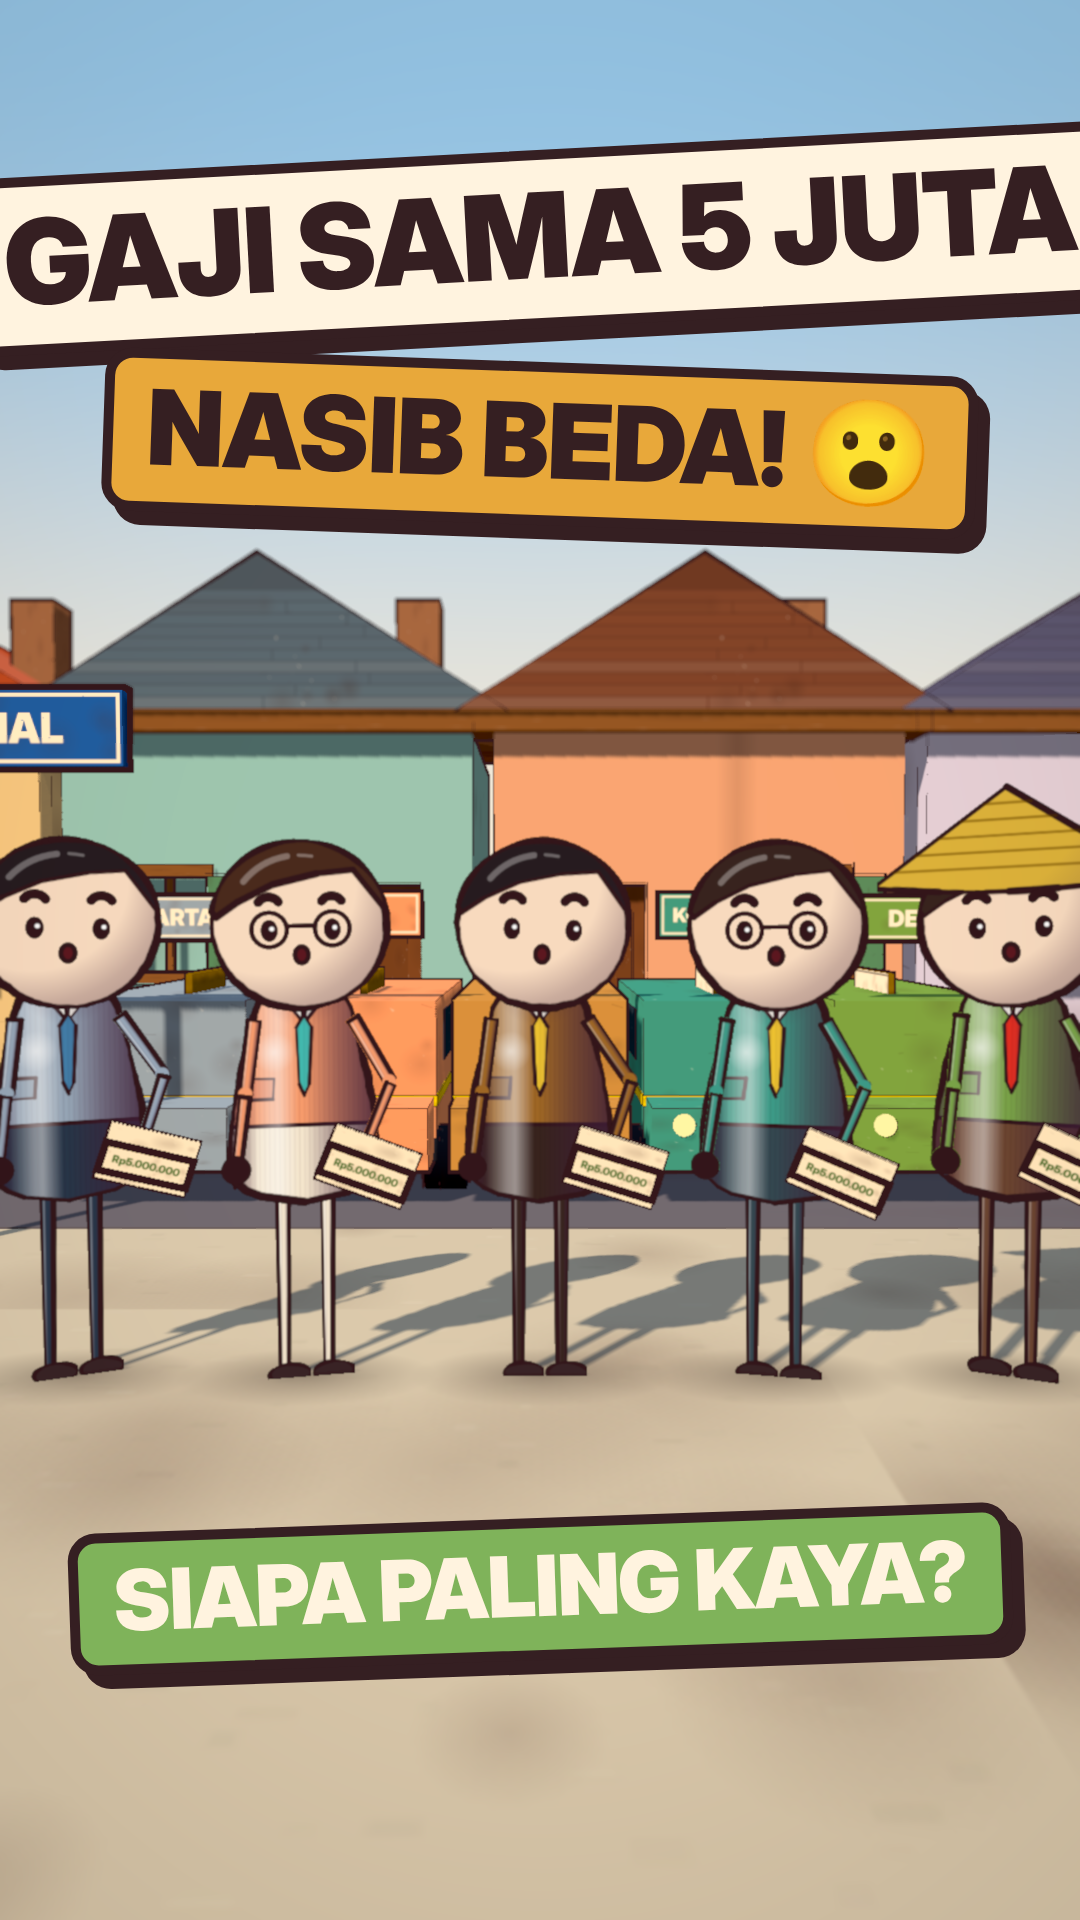
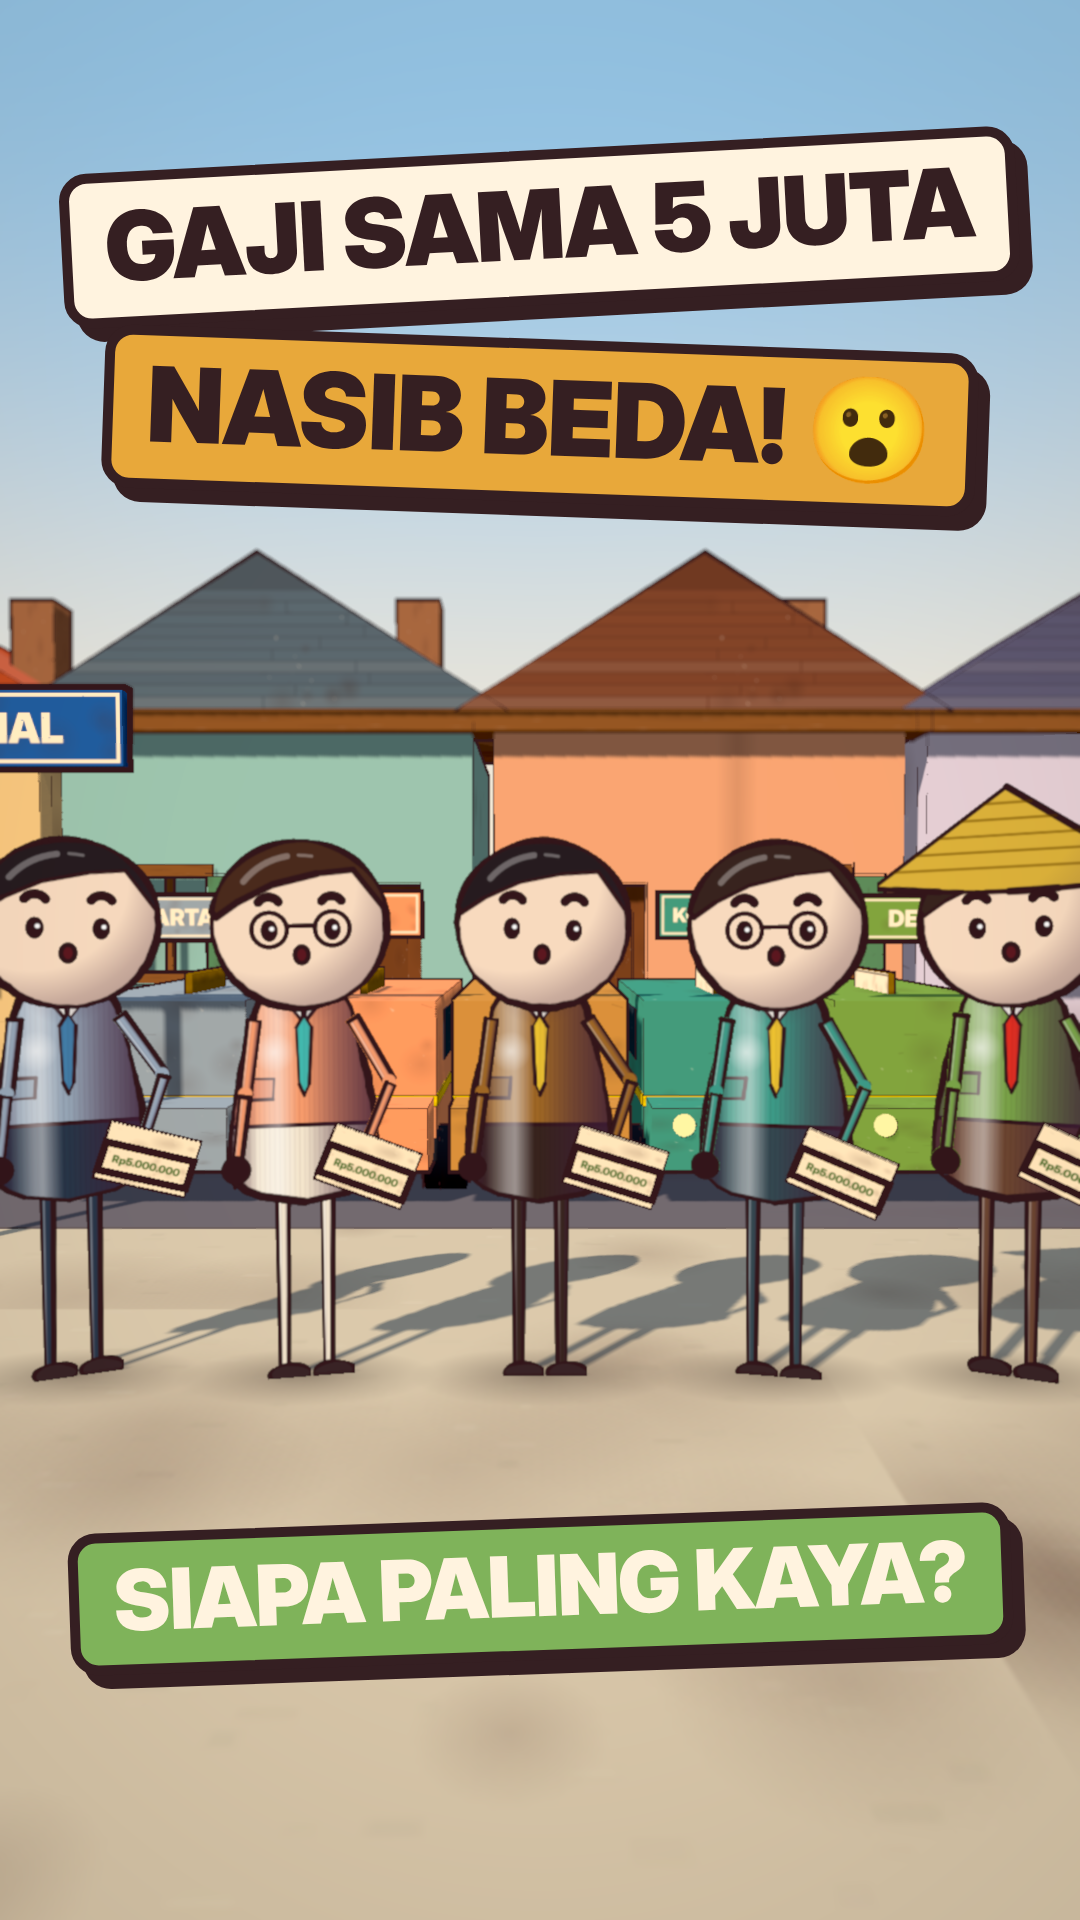
Gaji lima juta: thumbnail title fits
Claude-Session: https://claude.ai/code/session_01EsaXenu6uBtnQ61DJCHAmA

Changed region(s): [[0.0, 0.0625, 1.0, 0.3125]]

diff --git a/src/Video.jsx b/src/Video.jsx
@@ -259,7 +259,7 @@ export const Thumb = ({lang}) => {
         <Scene lang={lang} thumb={THUMB(EVt)} />
       </ThreeCanvas>
       <AbsoluteFill style={{alignItems: 'center', paddingTop: 150, gap: 34}}>
-        {word(tx.top, 118, '#fff3df', ink, -3)}
+        {word(tx.top, 96, '#fff3df', ink, -3)}
         {word(tx.mid, 104, '#e8a83a', ink, 2)}
       </AbsoluteFill>
       {tx.bot ? <AbsoluteFill style={{alignItems: 'center', justifyContent: 'flex-end', paddingBottom: 260}}>{word(tx.bot, 84, '#7fb35a', '#fff3df', -2)}</AbsoluteFill> : null}

diff --git a/videos/gaji-lima-juta/source/Video.jsx b/videos/gaji-lima-juta/source/Video.jsx
@@ -259,7 +259,7 @@ export const Thumb = ({lang}) => {
         <Scene lang={lang} thumb={THUMB(EVt)} />
       </ThreeCanvas>
       <AbsoluteFill style={{alignItems: 'center', paddingTop: 150, gap: 34}}>
-        {word(tx.top, 118, '#fff3df', ink, -3)}
+        {word(tx.top, 96, '#fff3df', ink, -3)}
         {word(tx.mid, 104, '#e8a83a', ink, 2)}
       </AbsoluteFill>
       {tx.bot ? <AbsoluteFill style={{alignItems: 'center', justifyContent: 'flex-end', paddingBottom: 260}}>{word(tx.bot, 84, '#7fb35a', '#fff3df', -2)}</AbsoluteFill> : null}
